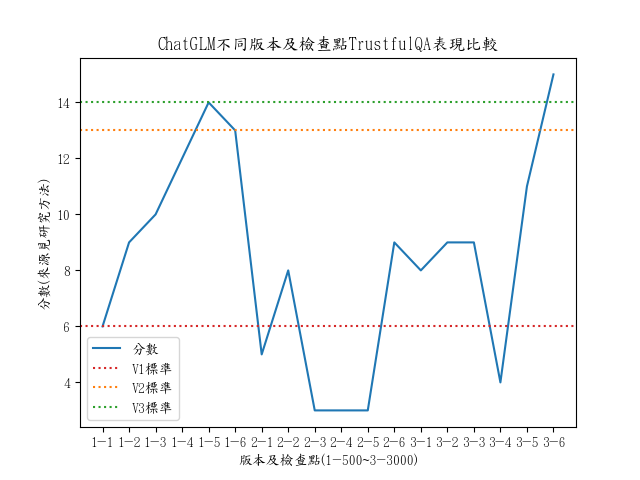
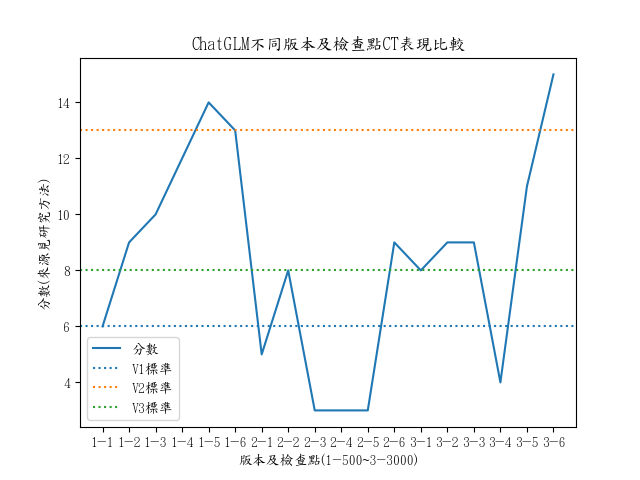
add good recuse

Changed region(s): [[0.25, 0.0625, 0.7812, 0.125]]

diff --git a/code/evaluation/asingle.py b/code/evaluation/asingle.py
@@ -1,0 +1,25 @@
+import pandas as pd
+import numpy as np
+from matplotlib import pyplot as plt
+from matplotlib import font_manager
+import matplotlib
+from matplotlib.pyplot import figure
+font_dir = ["/home/ntnu_stu/maid-weeny/font"]
+for font in font_manager.findSystemFonts(font_dir):
+    font_manager.fontManager.addfont(font)
+
+matplotlib.rcParams["font.family"] = "TW-MOE-Std-Kai"
+dfs=pd.concat([pd.read_csv("ctscore.csv")['score'][1:7],pd.read_csv("ctscore.csv")['score'][8:14],pd.read_csv("ctscore.csv")['score'][15:21]])
+dfm=pd.concat([pd.read_csv("ctscore.csv")[1:7]['model'],pd.read_csv("ctscore.csv")[8:14]['model'],pd.read_csv("ctscore.csv")[15:21]['model']])
+dfc=pd.read_csv("ctscore.csv")
+plt.plot(dfm,dfs,c="#1f77b4")
+plt.axhline(y=dfc['score'][0],linestyle=":",c="#1f77b4")
+plt.axhline(y=dfc['score'][7],linestyle=":",c="#ff7f0e")
+plt.axhline(y=dfc['score'][15],linestyle=":",c="#2ca02c")
+plt.legend(["分數","V1標準","V2標準","V3標準"])
+
+plt.ylabel("分數(來源見研究方法)")
+plt.xlabel("版本及檢查點(1-500~3-3000)")
+plt.title("ChatGLM不同版本及檢查點CT表現比較")
+plt.savefig('../../chart/allctc.eps', format='eps')
+plt.savefig('../../chart/allctcp.png', format='png')

diff --git a/code/evaluation/singlectscore.py b/code/evaluation/singlectscore.py
@@ -1,3 +1,4 @@
+#not yet done
 import pandas as pd
 import numpy as np
 from matplotlib import pyplot as plt
@@ -16,7 +17,7 @@ dfc=pd.read_csv("ctscore.csv")
 
 plt.ylabel("分數(來源見研究方法)")
 plt.xlabel("版本及檢查點(1-500~3-3000)")
-plt.title("ChatGLM不同版本及檢查點TrustfulQA表現比較")
+plt.title("ChatGLM不同版本及檢查點CT表現比較")
 # plt.axis([0, 12,])
 
 #plot 1:
